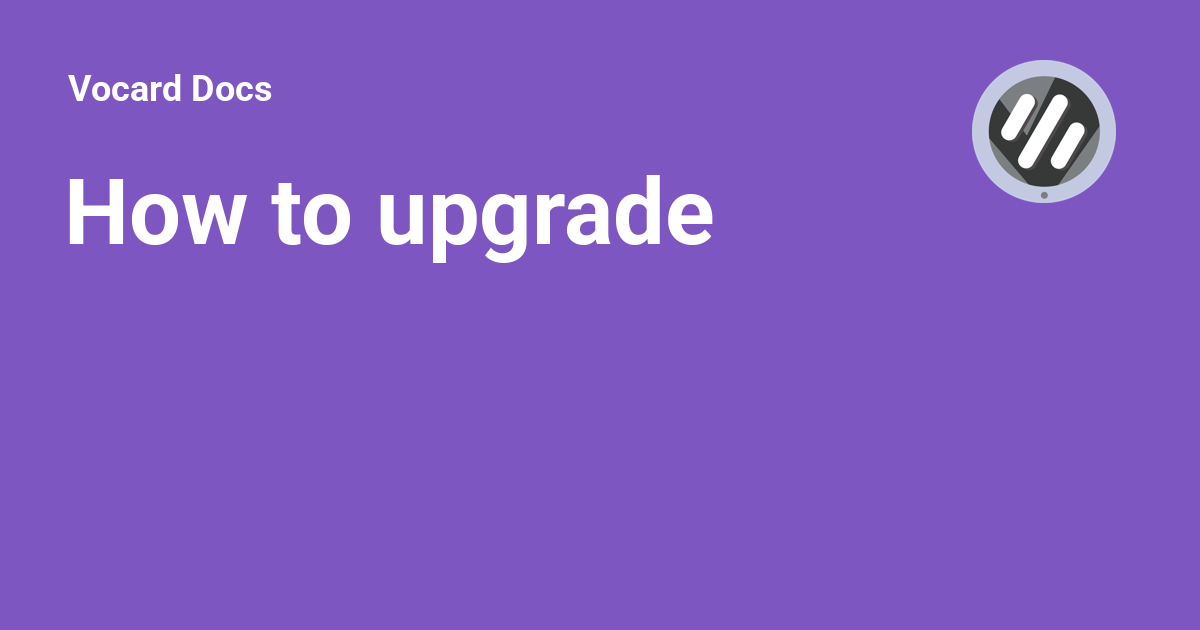
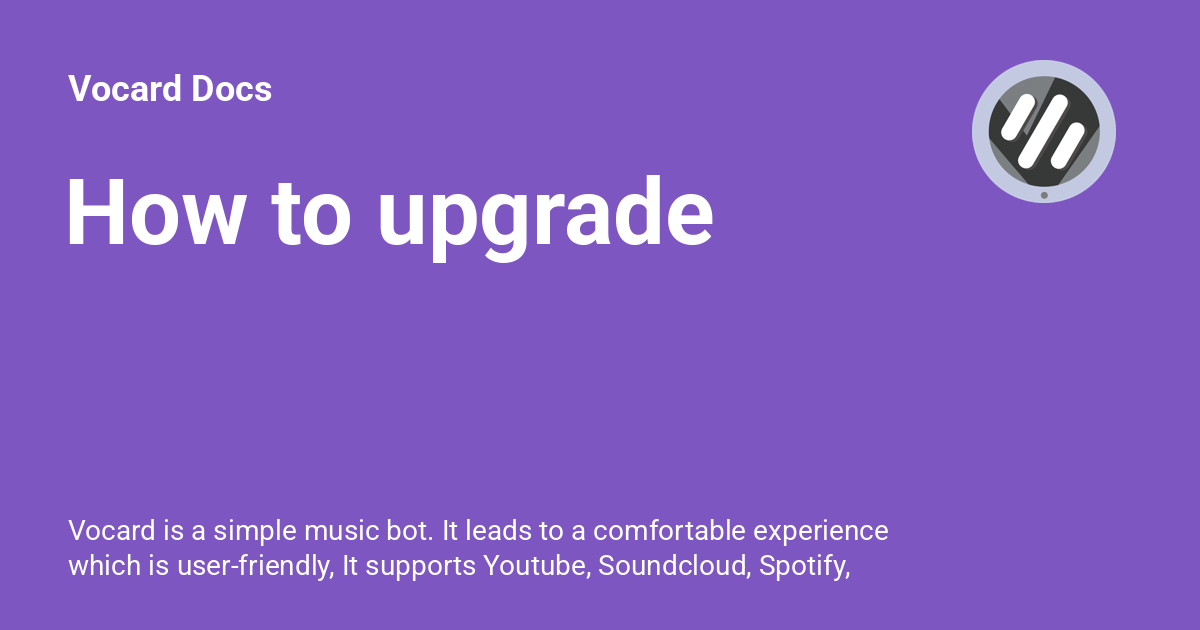
Deployed 9e3727c to 2.7.1 with MkDocs 1.6.1 and mike 2.1.3

Changed region(s): [[0.0617, 0.8143, 0.74, 0.9349]]

diff --git a/2.7.1/dashboard/ssl/cloudflare tunnel/index.html b/2.7.1/dashboard/ssl/cloudflare tunnel/index.html
@@ -6,6 +6,8 @@
       <meta charset="utf-8">
       <meta name="viewport" content="width=device-width,initial-scale=1">
       
+        <meta name="description" content="Vocard is a simple music bot. It leads to a comfortable experience which is user-friendly, It supports Youtube, Soundcloud, Spotify, Twitch and more!">
+      
       
       
         <link rel="canonical" href="https://docs.vocard.xyz/2.7.1/dashboard/ssl/cloudflare%20tunnel/">
@@ -65,7 +67,7 @@
       
         <meta  property="og:title"  content="Using Cloudflare Tunnel - Vocard Docs" >
       
-        <meta  property="og:description"  content="None" >
+        <meta  property="og:description"  content="Vocard is a simple music bot. It leads to a comfortable experience which is user-friendly, It supports Youtube, Soundcloud, Spotify, Twitch and more!" >
       
         <meta  property="og:image"  content="https://docs.vocard.xyz/2.7.1/assets/images/social/dashboard/ssl/cloudflare tunnel.png" >
       
@@ -81,7 +83,7 @@
       
         <meta  name="twitter:title"  content="Using Cloudflare Tunnel - Vocard Docs" >
       
-        <meta  name="twitter:description"  content="None" >
+        <meta  name="twitter:description"  content="Vocard is a simple music bot. It leads to a comfortable experience which is user-friendly, It supports Youtube, Soundcloud, Spotify, Twitch and more!" >
       
         <meta  name="twitter:image"  content="https://docs.vocard.xyz/2.7.1/assets/images/social/dashboard/ssl/cloudflare tunnel.png" >
       

diff --git a/2.7.1/dashboard/config/how-to-upgrade/index.html b/2.7.1/dashboard/config/how-to-upgrade/index.html
@@ -6,6 +6,8 @@
       <meta charset="utf-8">
       <meta name="viewport" content="width=device-width,initial-scale=1">
       
+        <meta name="description" content="Vocard is a simple music bot. It leads to a comfortable experience which is user-friendly, It supports Youtube, Soundcloud, Spotify, Twitch and more!">
+      
       
       
         <link rel="canonical" href="https://docs.vocard.xyz/2.7.1/dashboard/config/how-to-upgrade/">
@@ -65,7 +67,7 @@
       
         <meta  property="og:title"  content="How to upgrade - Vocard Docs" >
       
-        <meta  property="og:description"  content="None" >
+        <meta  property="og:description"  content="Vocard is a simple music bot. It leads to a comfortable experience which is user-friendly, It supports Youtube, Soundcloud, Spotify, Twitch and more!" >
       
         <meta  property="og:image"  content="https://docs.vocard.xyz/2.7.1/assets/images/social/dashboard/config/how-to-upgrade.png" >
       
@@ -81,7 +83,7 @@
       
         <meta  name="twitter:title"  content="How to upgrade - Vocard Docs" >
       
-        <meta  name="twitter:description"  content="None" >
+        <meta  name="twitter:description"  content="Vocard is a simple music bot. It leads to a comfortable experience which is user-friendly, It supports Youtube, Soundcloud, Spotify, Twitch and more!" >
       
         <meta  name="twitter:image"  content="https://docs.vocard.xyz/2.7.1/assets/images/social/dashboard/config/how-to-upgrade.png" >
       

diff --git a/2.7.1/bot/setup/installing-python/index.html b/2.7.1/bot/setup/installing-python/index.html
@@ -6,6 +6,8 @@
       <meta charset="utf-8">
       <meta name="viewport" content="width=device-width,initial-scale=1">
       
+        <meta name="description" content="Vocard is a simple music bot. It leads to a comfortable experience which is user-friendly, It supports Youtube, Soundcloud, Spotify, Twitch and more!">
+      
       
       
         <link rel="canonical" href="https://docs.vocard.xyz/2.7.1/bot/setup/installing-python/">
@@ -65,7 +67,7 @@
       
         <meta  property="og:title"  content="Python Installation - Vocard Docs" >
       
-        <meta  property="og:description"  content="None" >
+        <meta  property="og:description"  content="Vocard is a simple music bot. It leads to a comfortable experience which is user-friendly, It supports Youtube, Soundcloud, Spotify, Twitch and more!" >
       
         <meta  property="og:image"  content="https://docs.vocard.xyz/2.7.1/assets/images/social/bot/setup/installing-python.png" >
       
@@ -81,7 +83,7 @@
       
         <meta  name="twitter:title"  content="Python Installation - Vocard Docs" >
       
-        <meta  name="twitter:description"  content="None" >
+        <meta  name="twitter:description"  content="Vocard is a simple music bot. It leads to a comfortable experience which is user-friendly, It supports Youtube, Soundcloud, Spotify, Twitch and more!" >
       
         <meta  name="twitter:image"  content="https://docs.vocard.xyz/2.7.1/assets/images/social/bot/setup/installing-python.png" >
       

diff --git a/2.7.1/dashboard/ssl/cloudflare/index.html b/2.7.1/dashboard/ssl/cloudflare/index.html
@@ -6,6 +6,8 @@
       <meta charset="utf-8">
       <meta name="viewport" content="width=device-width,initial-scale=1">
       
+        <meta name="description" content="Vocard is a simple music bot. It leads to a comfortable experience which is user-friendly, It supports Youtube, Soundcloud, Spotify, Twitch and more!">
+      
       
       
         <link rel="canonical" href="https://docs.vocard.xyz/2.7.1/dashboard/ssl/cloudflare/">
@@ -65,7 +67,7 @@
       
         <meta  property="og:title"  content="Using Cloudflare Proxy - Vocard Docs" >
       
-        <meta  property="og:description"  content="None" >
+        <meta  property="og:description"  content="Vocard is a simple music bot. It leads to a comfortable experience which is user-friendly, It supports Youtube, Soundcloud, Spotify, Twitch and more!" >
       
         <meta  property="og:image"  content="https://docs.vocard.xyz/2.7.1/assets/images/social/dashboard/ssl/cloudflare.png" >
       
@@ -81,7 +83,7 @@
       
         <meta  name="twitter:title"  content="Using Cloudflare Proxy - Vocard Docs" >
       
-        <meta  name="twitter:description"  content="None" >
+        <meta  name="twitter:description"  content="Vocard is a simple music bot. It leads to a comfortable experience which is user-friendly, It supports Youtube, Soundcloud, Spotify, Twitch and more!" >
       
         <meta  name="twitter:image"  content="https://docs.vocard.xyz/2.7.1/assets/images/social/dashboard/ssl/cloudflare.png" >
       

diff --git a/2.7.1/dashboard/ssl/index.html b/2.7.1/dashboard/ssl/index.html
@@ -6,6 +6,8 @@
       <meta charset="utf-8">
       <meta name="viewport" content="width=device-width,initial-scale=1">
       
+        <meta name="description" content="Vocard is a simple music bot. It leads to a comfortable experience which is user-friendly, It supports Youtube, Soundcloud, Spotify, Twitch and more!">
+      
       
       
         <link rel="canonical" href="https://docs.vocard.xyz/2.7.1/dashboard/ssl/">
@@ -65,7 +67,7 @@
       
         <meta  property="og:title"  content="Adding HTTPS to Vocard Dashboard - Vocard Docs" >
       
-        <meta  property="og:description"  content="None" >
+        <meta  property="og:description"  content="Vocard is a simple music bot. It leads to a comfortable experience which is user-friendly, It supports Youtube, Soundcloud, Spotify, Twitch and more!" >
       
         <meta  property="og:image"  content="https://docs.vocard.xyz/2.7.1/assets/images/social/dashboard/ssl/index.png" >
       
@@ -81,7 +83,7 @@
       
         <meta  name="twitter:title"  content="Adding HTTPS to Vocard Dashboard - Vocard Docs" >
       
-        <meta  name="twitter:description"  content="None" >
+        <meta  name="twitter:description"  content="Vocard is a simple music bot. It leads to a comfortable experience which is user-friendly, It supports Youtube, Soundcloud, Spotify, Twitch and more!" >
       
         <meta  name="twitter:image"  content="https://docs.vocard.xyz/2.7.1/assets/images/social/dashboard/ssl/index.png" >
       

diff --git a/2.7.1/bot/config/how-to-upgrade/index.html b/2.7.1/bot/config/how-to-upgrade/index.html
@@ -6,6 +6,8 @@
       <meta charset="utf-8">
       <meta name="viewport" content="width=device-width,initial-scale=1">
       
+        <meta name="description" content="Vocard is a simple music bot. It leads to a comfortable experience which is user-friendly, It supports Youtube, Soundcloud, Spotify, Twitch and more!">
+      
       
       
         <link rel="canonical" href="https://docs.vocard.xyz/2.7.1/bot/config/how-to-upgrade/">
@@ -65,7 +67,7 @@
       
         <meta  property="og:title"  content="How to upgrade - Vocard Docs" >
       
-        <meta  property="og:description"  content="None" >
+        <meta  property="og:description"  content="Vocard is a simple music bot. It leads to a comfortable experience which is user-friendly, It supports Youtube, Soundcloud, Spotify, Twitch and more!" >
       
         <meta  property="og:image"  content="https://docs.vocard.xyz/2.7.1/assets/images/social/bot/config/how-to-upgrade.png" >
       
@@ -81,7 +83,7 @@
       
         <meta  name="twitter:title"  content="How to upgrade - Vocard Docs" >
       
-        <meta  name="twitter:description"  content="None" >
+        <meta  name="twitter:description"  content="Vocard is a simple music bot. It leads to a comfortable experience which is user-friendly, It supports Youtube, Soundcloud, Spotify, Twitch and more!" >
       
         <meta  name="twitter:image"  content="https://docs.vocard.xyz/2.7.1/assets/images/social/bot/config/how-to-upgrade.png" >
       

diff --git a/2.7.1/bot/setup/docker-windows/index.html b/2.7.1/bot/setup/docker-windows/index.html
@@ -6,6 +6,8 @@
       <meta charset="utf-8">
       <meta name="viewport" content="width=device-width,initial-scale=1">
       
+        <meta name="description" content="Vocard is a simple music bot. It leads to a comfortable experience which is user-friendly, It supports Youtube, Soundcloud, Spotify, Twitch and more!">
+      
       
       
         <link rel="canonical" href="https://docs.vocard.xyz/2.7.1/bot/setup/docker-windows/">
@@ -65,7 +67,7 @@
       
         <meta  property="og:title"  content="Docker Windows - Vocard Docs" >
       
-        <meta  property="og:description"  content="None" >
+        <meta  property="og:description"  content="Vocard is a simple music bot. It leads to a comfortable experience which is user-friendly, It supports Youtube, Soundcloud, Spotify, Twitch and more!" >
       
         <meta  property="og:image"  content="https://docs.vocard.xyz/2.7.1/assets/images/social/bot/setup/docker-windows.png" >
       
@@ -81,7 +83,7 @@
       
         <meta  name="twitter:title"  content="Docker Windows - Vocard Docs" >
       
-        <meta  name="twitter:description"  content="None" >
+        <meta  name="twitter:description"  content="Vocard is a simple music bot. It leads to a comfortable experience which is user-friendly, It supports Youtube, Soundcloud, Spotify, Twitch and more!" >
       
         <meta  name="twitter:image"  content="https://docs.vocard.xyz/2.7.1/assets/images/social/bot/setup/docker-windows.png" >
       

diff --git a/2.7.1/bot/config/bot-activity/index.html b/2.7.1/bot/config/bot-activity/index.html
@@ -6,6 +6,8 @@
       <meta charset="utf-8">
       <meta name="viewport" content="width=device-width,initial-scale=1">
       
+        <meta name="description" content="Vocard is a simple music bot. It leads to a comfortable experience which is user-friendly, It supports Youtube, Soundcloud, Spotify, Twitch and more!">
+      
       
       
         <link rel="canonical" href="https://docs.vocard.xyz/2.7.1/bot/config/bot-activity/">
@@ -65,7 +67,7 @@
       
         <meta  property="og:title"  content="Bot Activity - Vocard Docs" >
       
-        <meta  property="og:description"  content="None" >
+        <meta  property="og:description"  content="Vocard is a simple music bot. It leads to a comfortable experience which is user-friendly, It supports Youtube, Soundcloud, Spotify, Twitch and more!" >
       
         <meta  property="og:image"  content="https://docs.vocard.xyz/2.7.1/assets/images/social/bot/config/bot-activity.png" >
       
@@ -81,7 +83,7 @@
       
         <meta  name="twitter:title"  content="Bot Activity - Vocard Docs" >
       
-        <meta  name="twitter:description"  content="None" >
+        <meta  name="twitter:description"  content="Vocard is a simple music bot. It leads to a comfortable experience which is user-friendly, It supports Youtube, Soundcloud, Spotify, Twitch and more!" >
       
         <meta  name="twitter:image"  content="https://docs.vocard.xyz/2.7.1/assets/images/social/bot/config/bot-activity.png" >
       

diff --git a/2.7.1/dashboard/config/language/index.html b/2.7.1/dashboard/config/language/index.html
@@ -6,6 +6,8 @@
       <meta charset="utf-8">
       <meta name="viewport" content="width=device-width,initial-scale=1">
       
+        <meta name="description" content="Vocard is a simple music bot. It leads to a comfortable experience which is user-friendly, It supports Youtube, Soundcloud, Spotify, Twitch and more!">
+      
       
       
         <link rel="canonical" href="https://docs.vocard.xyz/2.7.1/dashboard/config/language/">
@@ -65,7 +67,7 @@
       
         <meta  property="og:title"  content="Languages - Vocard Docs" >
       
-        <meta  property="og:description"  content="None" >
+        <meta  property="og:description"  content="Vocard is a simple music bot. It leads to a comfortable experience which is user-friendly, It supports Youtube, Soundcloud, Spotify, Twitch and more!" >
       
         <meta  property="og:image"  content="https://docs.vocard.xyz/2.7.1/assets/images/social/dashboard/config/language.png" >
       
@@ -81,7 +83,7 @@
       
         <meta  name="twitter:title"  content="Languages - Vocard Docs" >
       
-        <meta  name="twitter:description"  content="None" >
+        <meta  name="twitter:description"  content="Vocard is a simple music bot. It leads to a comfortable experience which is user-friendly, It supports Youtube, Soundcloud, Spotify, Twitch and more!" >
       
         <meta  name="twitter:image"  content="https://docs.vocard.xyz/2.7.1/assets/images/social/dashboard/config/language.png" >
       

diff --git a/2.7.1/bot/setup/docker-linux/index.html b/2.7.1/bot/setup/docker-linux/index.html
@@ -6,6 +6,8 @@
       <meta charset="utf-8">
       <meta name="viewport" content="width=device-width,initial-scale=1">
       
+        <meta name="description" content="Vocard is a simple music bot. It leads to a comfortable experience which is user-friendly, It supports Youtube, Soundcloud, Spotify, Twitch and more!">
+      
       
       
         <link rel="canonical" href="https://docs.vocard.xyz/2.7.1/bot/setup/docker-linux/">
@@ -65,7 +67,7 @@
       
         <meta  property="og:title"  content="Docker Linux - Vocard Docs" >
       
-        <meta  property="og:description"  content="None" >
+        <meta  property="og:description"  content="Vocard is a simple music bot. It leads to a comfortable experience which is user-friendly, It supports Youtube, Soundcloud, Spotify, Twitch and more!" >
       
         <meta  property="og:image"  content="https://docs.vocard.xyz/2.7.1/assets/images/social/bot/setup/docker-linux.png" >
       
@@ -81,7 +83,7 @@
       
         <meta  name="twitter:title"  content="Docker Linux - Vocard Docs" >
       
-        <meta  name="twitter:description"  content="None" >
+        <meta  name="twitter:description"  content="Vocard is a simple music bot. It leads to a comfortable experience which is user-friendly, It supports Youtube, Soundcloud, Spotify, Twitch and more!" >
       
         <meta  name="twitter:image"  content="https://docs.vocard.xyz/2.7.1/assets/images/social/bot/setup/docker-linux.png" >
       

diff --git a/2.7.1/dashboard/changelog/index.html b/2.7.1/dashboard/changelog/index.html
@@ -6,6 +6,8 @@
       <meta charset="utf-8">
       <meta name="viewport" content="width=device-width,initial-scale=1">
       
+        <meta name="description" content="Vocard is a simple music bot. It leads to a comfortable experience which is user-friendly, It supports Youtube, Soundcloud, Spotify, Twitch and more!">
+      
       
       
         <link rel="canonical" href="https://docs.vocard.xyz/2.7.1/dashboard/changelog/">
@@ -63,7 +65,7 @@
       
         <meta  property="og:title"  content="Changelog - Vocard Docs" >
       
-        <meta  property="og:description"  content="None" >
+        <meta  property="og:description"  content="Vocard is a simple music bot. It leads to a comfortable experience which is user-friendly, It supports Youtube, Soundcloud, Spotify, Twitch and more!" >
       
         <meta  property="og:image"  content="https://docs.vocard.xyz/2.7.1/assets/images/social/dashboard/changelog/index.png" >
       
@@ -79,7 +81,7 @@
       
         <meta  name="twitter:title"  content="Changelog - Vocard Docs" >
       
-        <meta  name="twitter:description"  content="None" >
+        <meta  name="twitter:description"  content="Vocard is a simple music bot. It leads to a comfortable experience which is user-friendly, It supports Youtube, Soundcloud, Spotify, Twitch and more!" >
       
         <meta  name="twitter:image"  content="https://docs.vocard.xyz/2.7.1/assets/images/social/dashboard/changelog/index.png" >
       

diff --git a/2.7.1/dashboard/config/index.html b/2.7.1/dashboard/config/index.html
@@ -6,6 +6,8 @@
       <meta charset="utf-8">
       <meta name="viewport" content="width=device-width,initial-scale=1">
       
+        <meta name="description" content="Vocard is a simple music bot. It leads to a comfortable experience which is user-friendly, It supports Youtube, Soundcloud, Spotify, Twitch and more!">
+      
       
       
         <link rel="canonical" href="https://docs.vocard.xyz/2.7.1/dashboard/config/">
@@ -65,7 +67,7 @@
       
         <meta  property="og:title"  content="Configuration - Vocard Docs" >
       
-        <meta  property="og:description"  content="None" >
+        <meta  property="og:description"  content="Vocard is a simple music bot. It leads to a comfortable experience which is user-friendly, It supports Youtube, Soundcloud, Spotify, Twitch and more!" >
       
         <meta  property="og:image"  content="https://docs.vocard.xyz/2.7.1/assets/images/social/dashboard/config/index.png" >
       
@@ -81,7 +83,7 @@
       
         <meta  name="twitter:title"  content="Configuration - Vocard Docs" >
       
-        <meta  name="twitter:description"  content="None" >
+        <meta  name="twitter:description"  content="Vocard is a simple music bot. It leads to a comfortable experience which is user-friendly, It supports Youtube, Soundcloud, Spotify, Twitch and more!" >
       
         <meta  name="twitter:image"  content="https://docs.vocard.xyz/2.7.1/assets/images/social/dashboard/config/index.png" >
       
